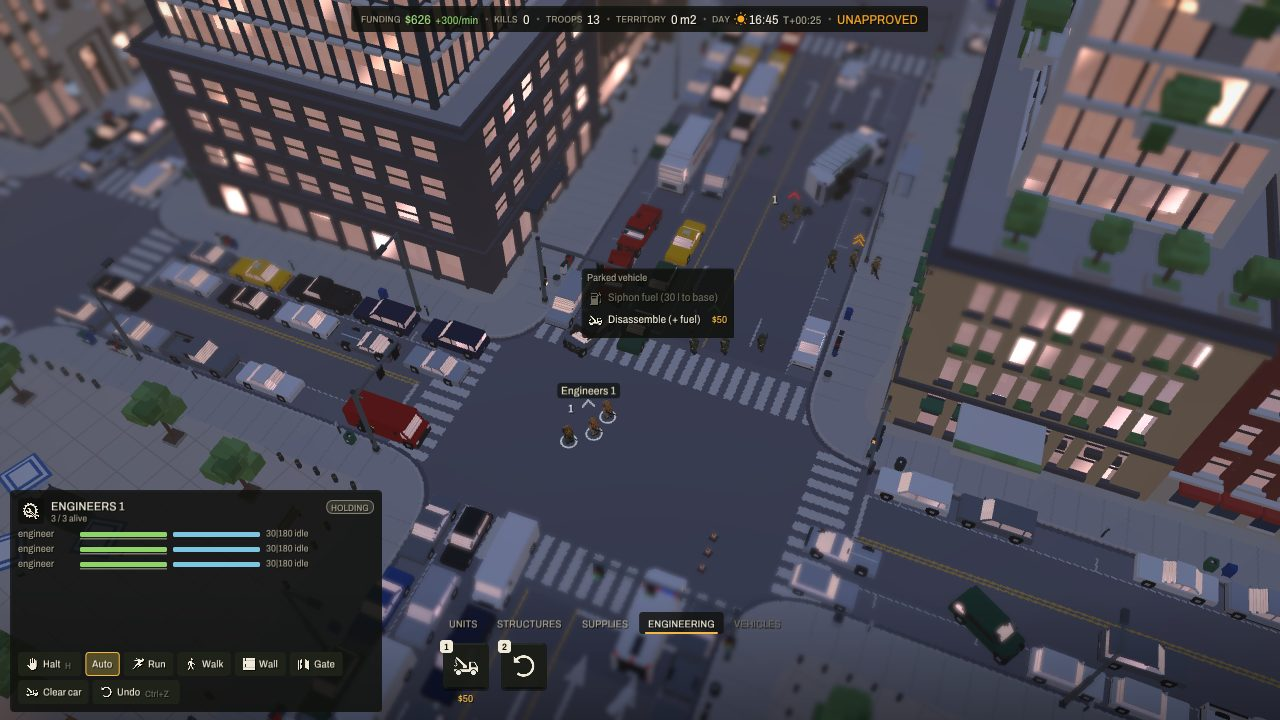
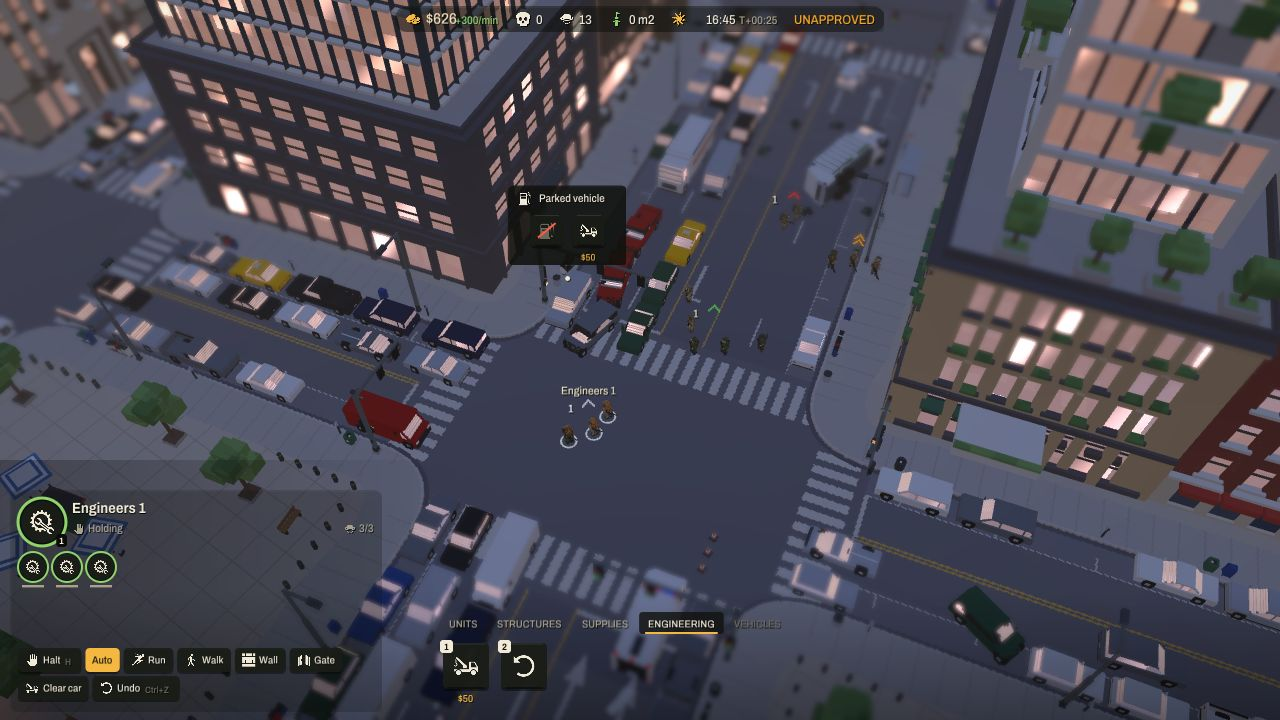
HUD v2 Phase 2: test captures 720p/1080p/1440p + approvals log (ui_hud 20/20 x3, b1_input 12/12, b2_input 7/7, ui_tower 11/11)
Claude-Session: https://claude.ai/code/session_01N78bVvXrxRXPMzr3mUn8CK

diff --git a/docs/UI_APPROVALS.md b/docs/UI_APPROVALS.md
@@ -26,10 +26,15 @@ Resolved 2026-11-28: the preview's temporary synth blips were replaced by the so
 assets/audio/sfx/ui/*.ogg on sessionD/sound). In game the HUD plays sounds only through ttz::audio::ui / uiAction.
 
 ## Phase 2 (in game), branch sessionE/ui-p2
-Started 2026-11-28 after the owner approved the v2 direction and A merged WS-A + sound (7e9891a). Look and theme only;
-WS-A's fixed layout, keys (1-7, Tab, Ctrl+n, Esc) and D's sound hooks are unchanged.
-- In: Counters palette, Archivo font, game-icons atlas (icons everywhere via drawUiIcon), token dock (icon, number key,
-  price; name in the tooltip; red slash when unavailable), frameless top bar with icons, token buttons in the selection
-  panel, hover lift / press / pop / refused shake tweens, hover tick through audio::ui.
-- Not yet: selection members as round tokens with health rings, alerts as an icon stack, world cards at the object,
-  marker restyle, pause / settings / main menu screens (need new code, next build).
+Done 2026-11-28 after the owner approved the v2 direction and A merged WS-A + sound (7e9891a). Look and theme only;
+WS-A's fixed layout, keys (1-7, Tab, Ctrl+n, Esc) and D's sound hooks are unchanged. Sounds only through audio::ui / uiAction.
+- Counters palette, Archivo font, game-icons atlas (icons everywhere), token dock, frameless top bar with icons and funds bump,
+  selection as round tokens with health rings + ammo lines, token action buttons, alert stack on the right edge, slim
+  placement banner, world-card hover menus, frameless world labels (red plate for alerts), building panel restyle (slot dots,
+  defence tracks with pips), info cards on hovered structures (nothing selected), pause menu / settings (Music, UI scale,
+  DOF, clouds) / key bindings / main menu (windowed only), hover / press / pop / shake tweens.
+- Tests (lavapipe, headless): ui_hud 20/20 at 1280x720, 1920x1080, 2560x1440; b1_input 12/12; b2_input 7/7; ui_tower 11/11.
+  Captures: docs/media/ui_v2/.
+- Not verified headless: structure info cards (the script hover snaps onto parked cars next to the test tower), pause /
+  settings / main menu (no capture yet). Audio settings show Music only until D's setBusVolume lands.
+- Known gaps: Esc on a settings sub-page closes the menu instead of stepping back; main menu has no keyboard navigation.
